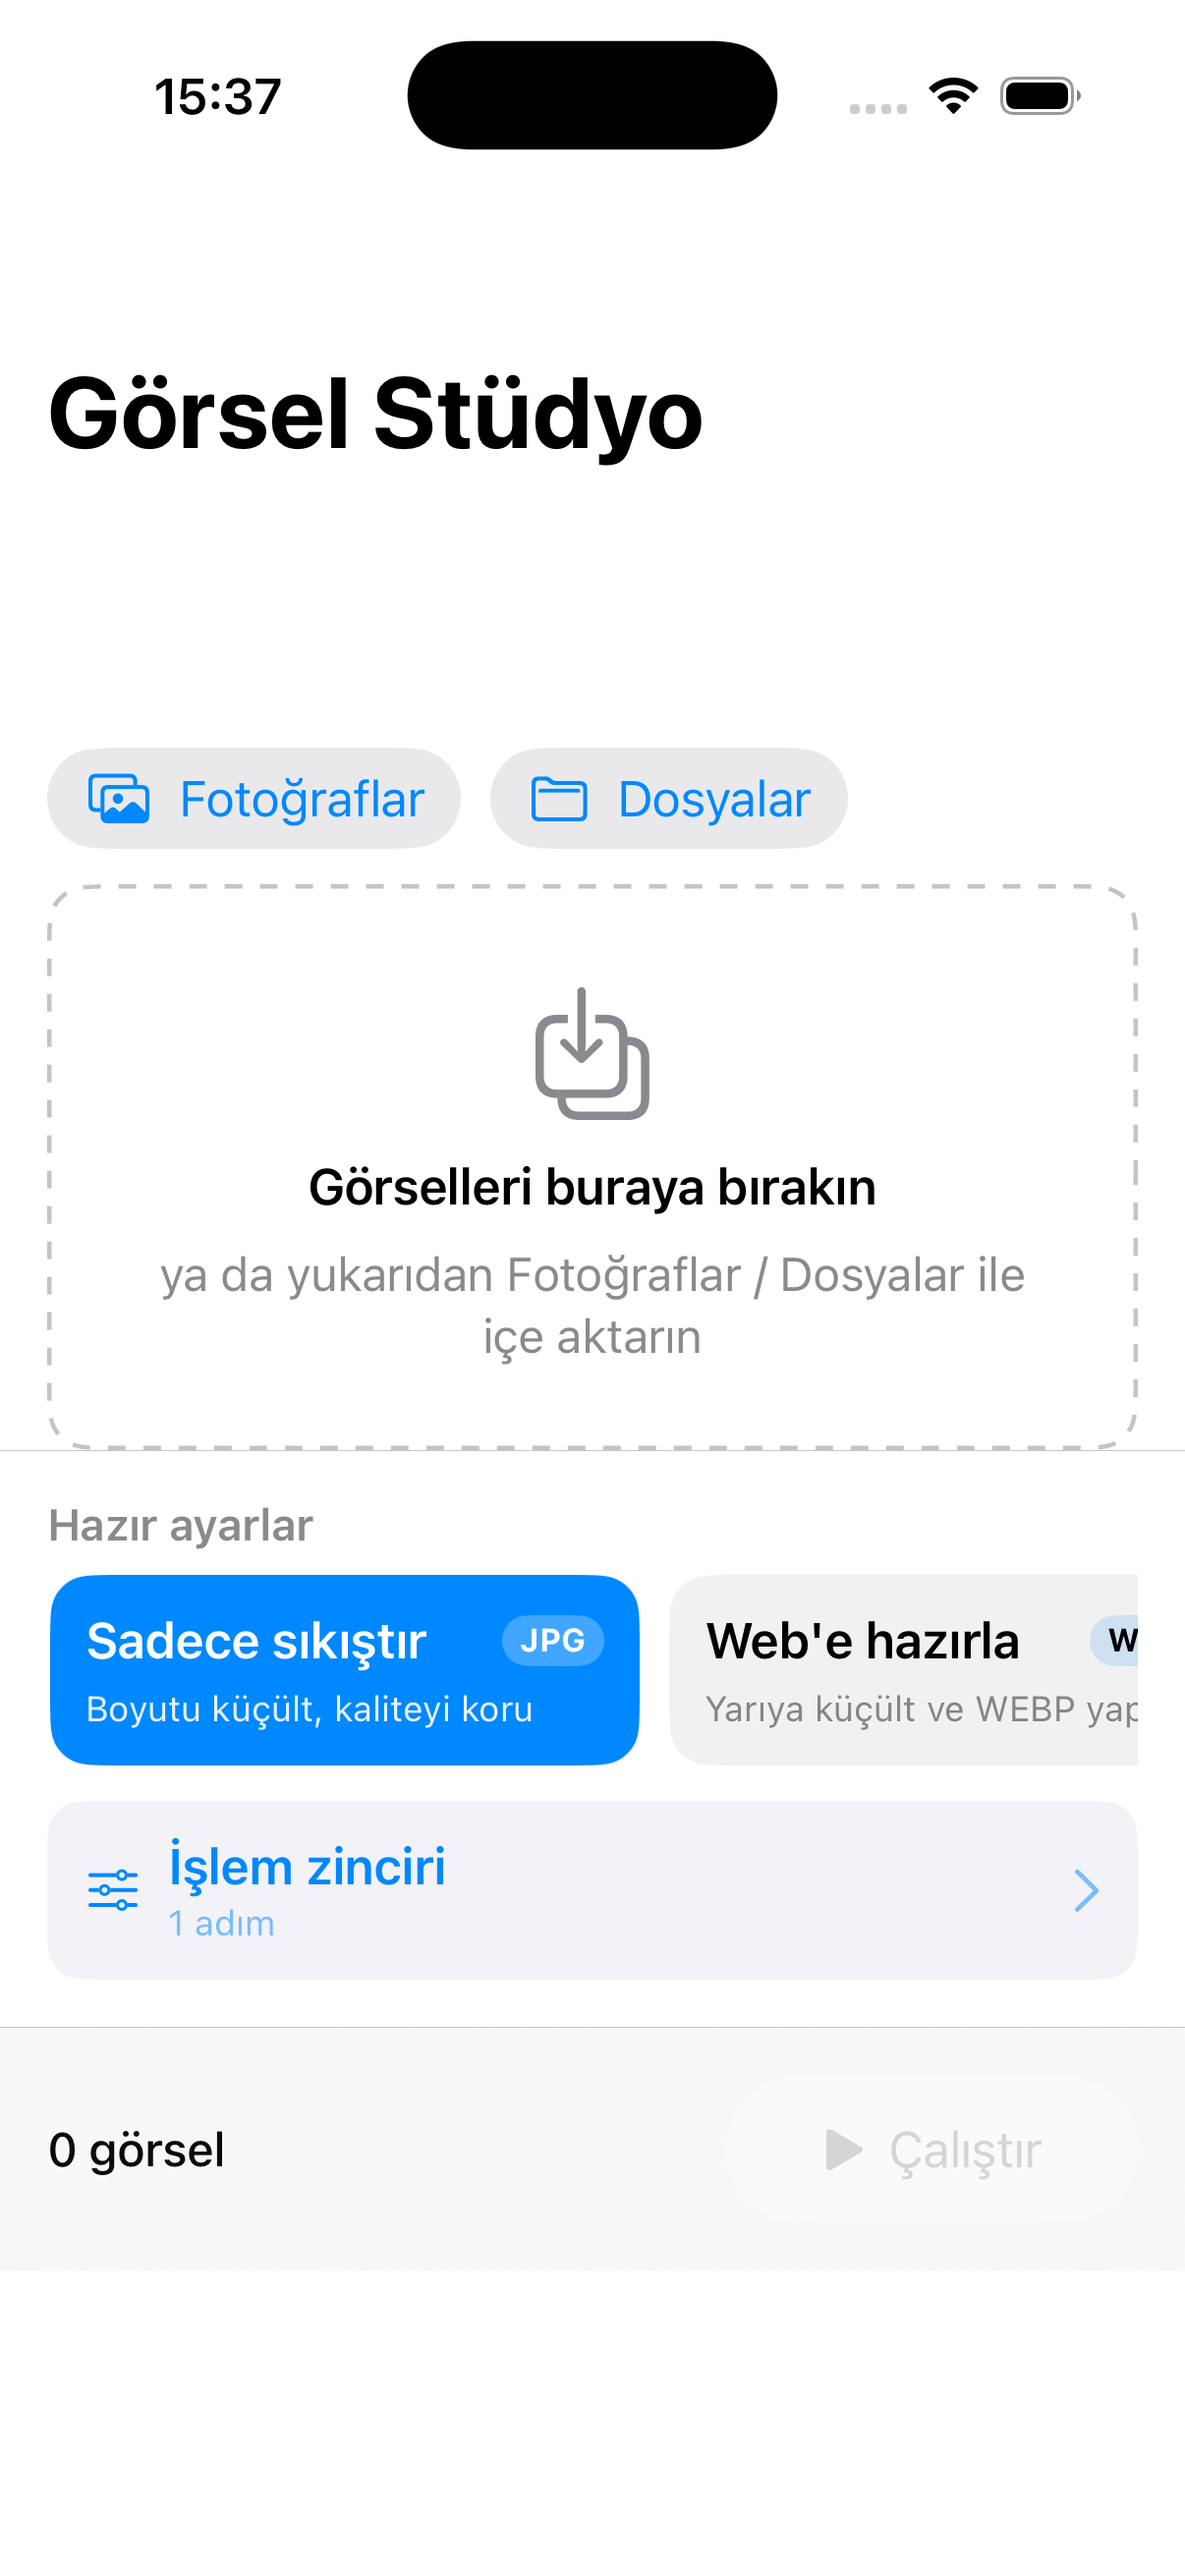
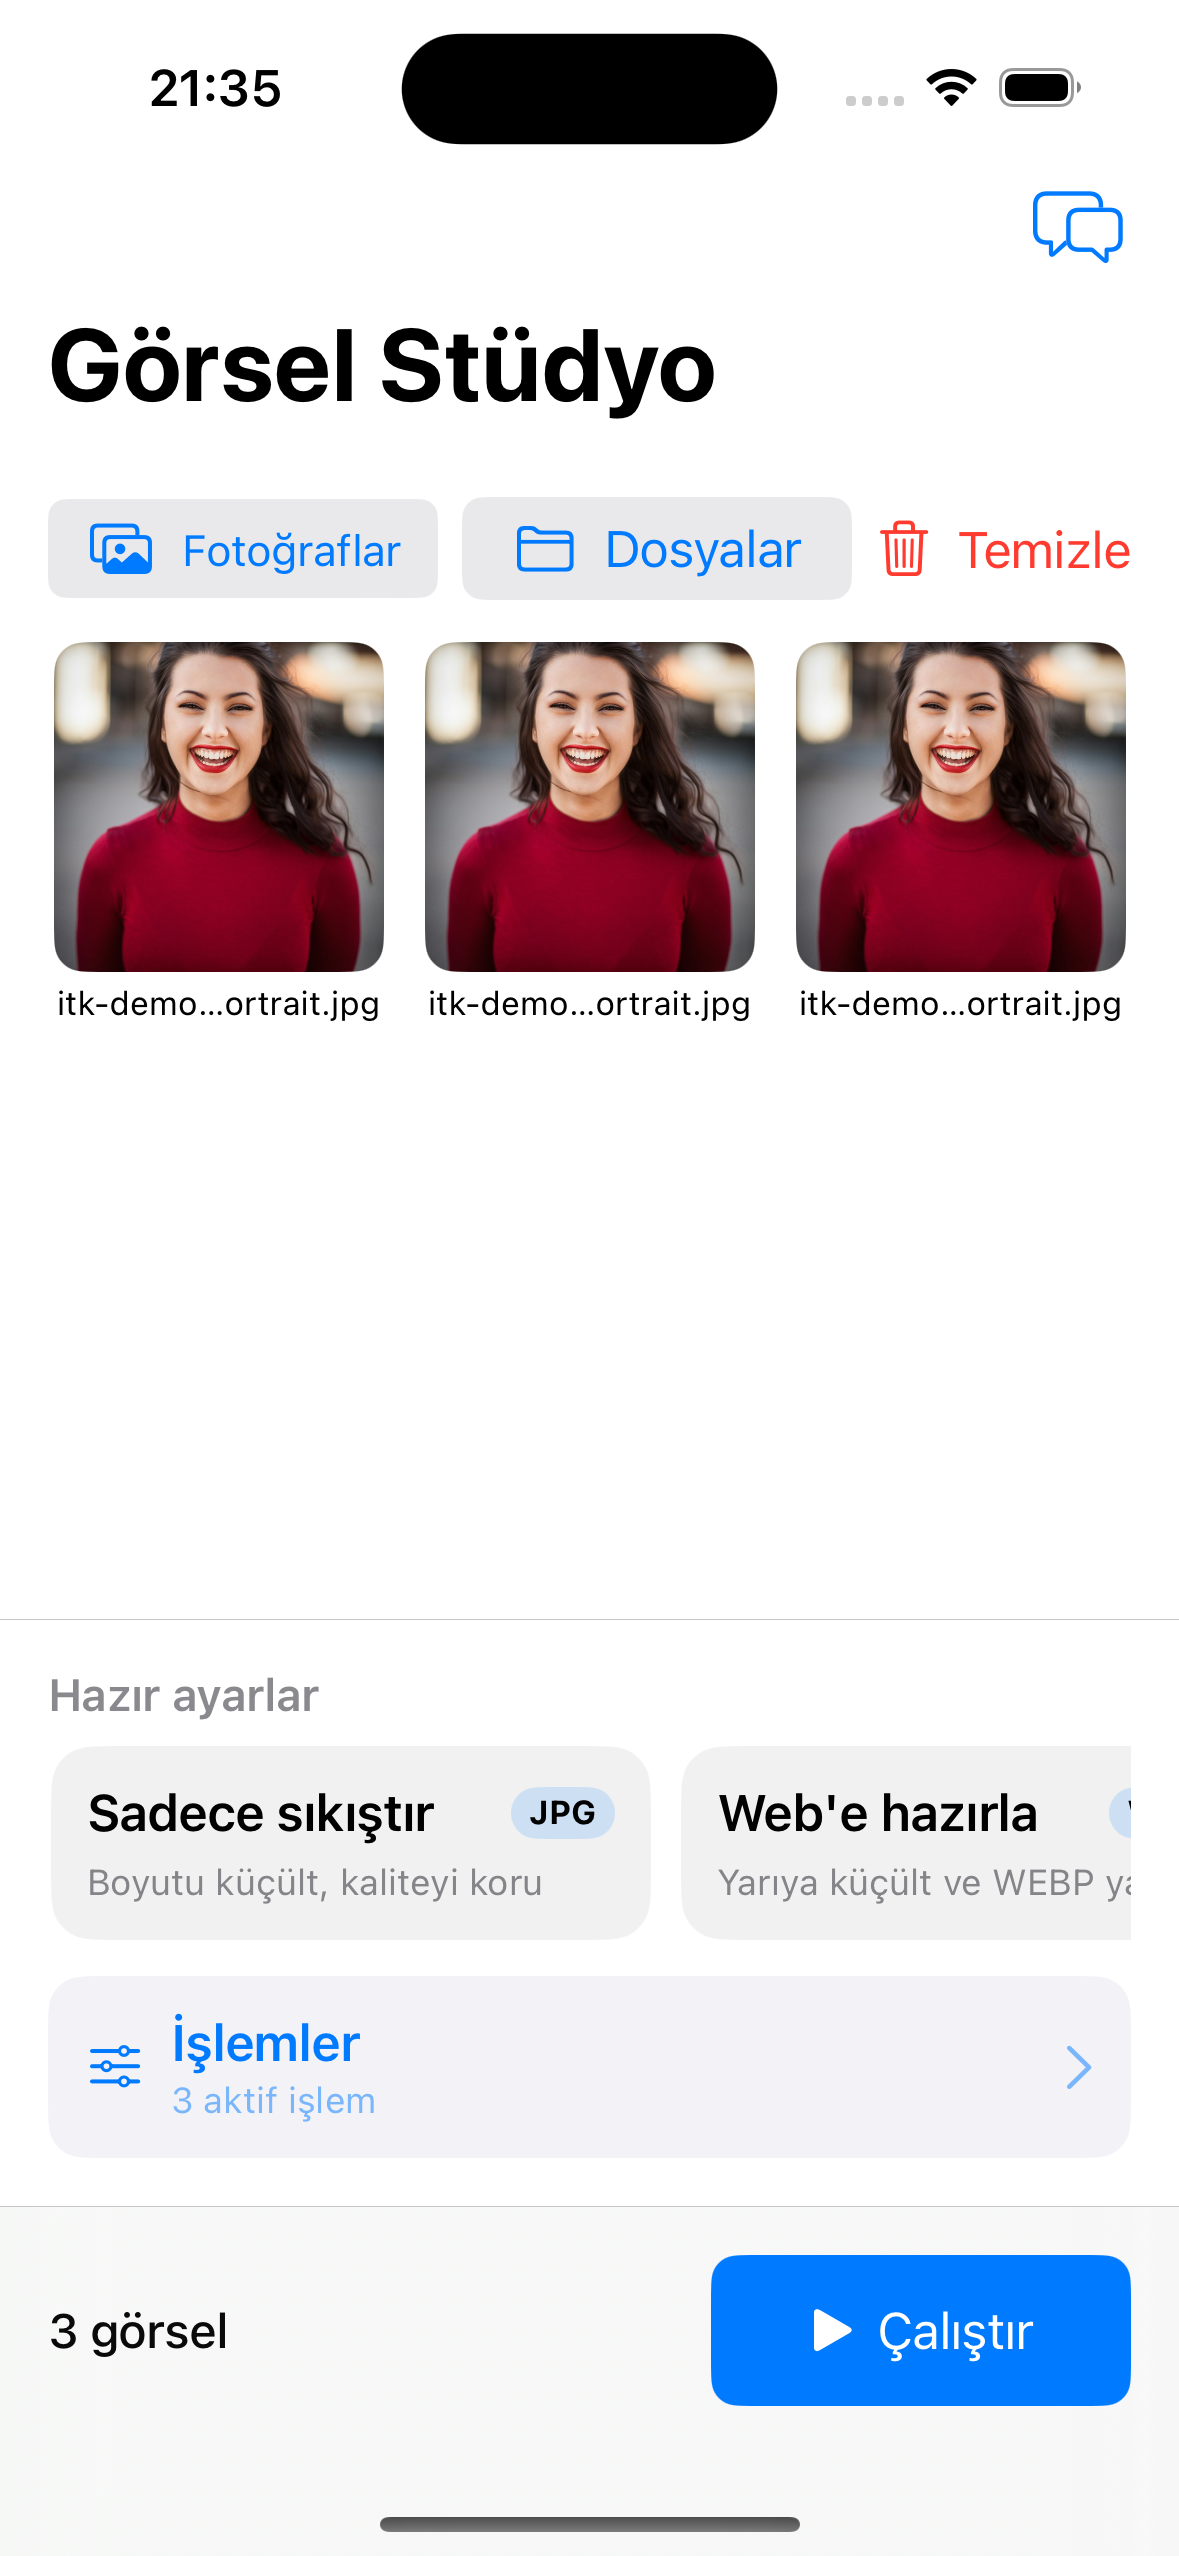
Release 1.0.1: update appcast, README, and screenshots
- appcast.xml: bump to version 2 / 1.0.1 with new notarized DMG enclosure
  (length + EdDSA signature) and fresh pubDate.
- README.md: reflect Görsel Stüdyo app bundle name, add current version (1.0.1)
  and macOS screenshot.
- screenshots: refresh iPhone (fixed single-row import buttons) + iPad captures,
  add macOS home capture.

diff --git a/README.md b/README.md
@@ -9,9 +9,11 @@ cihazınızda, yerel olarak çalışır.
 
 ## Ekran Görüntüleri
 
+![macOS ana ekran](screenshots/macos-home.png)
+
 | | |
 | --- | --- |
-| ![Ana ekran](screenshots/iphone-home.png) | ![Geniş görünüm](screenshots/ipad-home.png) |
+| ![iPhone ana ekran](screenshots/iphone-home.png) | ![iPad geniş görünüm](screenshots/ipad-home.png) |
 
 ## Kurulum
 
@@ -55,7 +57,7 @@ Nadiren bir indirme/aktarım sorunu nedeniyle uyarı görürseniz, uygulamaya
 kaldırabilirsiniz:
 
 ```bash
-xattr -dr com.apple.quarantine "/Applications/ImageToolkitApp.app"
+xattr -dr com.apple.quarantine "/Applications/Görsel Stüdyo.app"
 ```
 
 ## Kaldırma
@@ -64,11 +66,12 @@ xattr -dr com.apple.quarantine "/Applications/ImageToolkitApp.app"
 # npm ile kurduysanız:
 npm rm -g gorsel-studyo
 # Uygulamayı silin:
-rm -rf "/Applications/ImageToolkitApp.app"
+rm -rf "/Applications/Görsel Stüdyo.app"
 ```
 
 ## Sürümler ve Lisans
 
+- Güncel sürüm: **1.0.1**
 - Sürümler: bkz. [Releases](https://github.com/suleymanozcan/gorsel-studyo/releases)
 - Lisans: bkz. [LICENSE](./LICENSE) — kapalı kaynaklı, ücretsiz dağıtılabilir
   son kullanıcı lisansı (EULA).